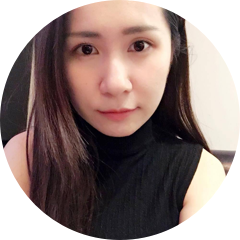
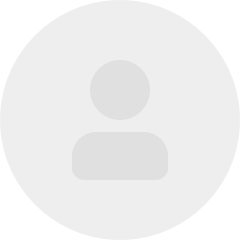
get firebase auth info, logout function

diff --git a/src/screens/memberCenter/index.js b/src/screens/memberCenter/index.js
@@ -15,6 +15,17 @@ import {
   Content
 } from 'native-base'
 import styles from './styles'
+import { connect } from 'react-redux'
+import { bindActionCreators } from 'redux'
+import memberAction from '../../reducer/member/memberAction'
+
+@connect(state => ({
+  memberUid: state.member.uid,
+  memberEmail: state.member.email,
+  memberAvatar: state.member.avatarUrl
+}), dispatch => ({
+  logout: bindActionCreators(memberAction.logoutMember, dispatch)
+}))
 
 export default class MemberCenter extends Component {
   listsData = {
@@ -29,6 +40,10 @@ export default class MemberCenter extends Component {
       { key: 'iconFeedback', icon: require(`../../assets/img/memberCenter/iconFeedback.png`), target: 'Feedback', text: '意見回饋' },
       { key: 'iconApply', icon: require(`../../assets/img/memberCenter/iconApply.png`), target: 'Apply', text: '成為講師' }
     ]
+  }
+
+  _logout() {
+    this.props.logout()
   }
 
   _renderListItem(rowData) {
@@ -62,22 +77,44 @@ export default class MemberCenter extends Component {
     )
   }
 
+  _renderUserAvater() {
+    return (
+      <View style={[styles.mainBackground, styles.avatar]}>
+        <Image 
+          source={
+            this.props.memberUid?
+            { uri: this.props.memberAvatar }:
+            require('../../assets/img/memberCenter/profileIcon.png')
+          }
+          style={styles.avatarImg}
+          large
+        />
+        <Text 
+          style={styles.email} 
+          onPress={() => {
+            if (!this.props.memberUid) {
+              this.props.navigation.navigate('Login')
+            }
+          }}
+        >
+          { this.props.memberUid? this.props.memberEmail: '登入' }
+        </Text>
+        {
+          this.props.memberUid &&
+          <TouchableOpacity onPress={() => this.props.navigation.navigate('MemberInfo')} style={styles.moreInfo}>
+            <Image source={require('../../assets/img/memberCenter/enter.png')} />
+          </TouchableOpacity>
+        }
+      </View>
+    )
+  }
+
   render() {
     return (
       <Container style={styles.container}>
         <Content>
-          <View style={[styles.mainBackground, styles.avatar]}>
-            <Image 
-              source={require('../../assets/img/memberCenter/profileIcon.png')}
-              style={styles.avatarImg}
-              large
-            />
-            <Text style={styles.email}>
-              wangshihe@gmail.com
-            </Text>
-            <TouchableOpacity onPress={() => this.props.navigation.navigate('MemberInfo')} style={styles.moreInfo}>
-              <Image source={require('../../assets/img/memberCenter/enter.png')} />
-            </TouchableOpacity>
+          <View>
+            { this._renderUserAvater() }
           </View>
           <View style={styles.container}>
             
@@ -90,13 +127,16 @@ export default class MemberCenter extends Component {
             <View style={styles.selectList}>
               { this.listsData.other.map(this._renderListItem.bind(this)) }
             </View>
-            <View style={styles.logout}>
-              <Button 
-                color="#212121" 
-                title="登出"
-                onPress={() => {}}
-              />
-            </View>
+            {
+              this.props.memberUid &&
+              <View style={styles.logout}>
+                <Button 
+                  color="#212121" 
+                  title="登出"
+                  onPress={this._logout.bind(this)}
+                />
+              </View>
+            }
           </View>
         </Content>
       </Container>

diff --git a/src/screens/memberCenter/memberInfo.js b/src/screens/memberCenter/memberInfo.js
@@ -15,10 +15,16 @@ import {
   Container
 } from 'native-base'
 import { memberInfoStyle } from './styles'
+import { connect } from 'react-redux'
+
+@connect(state => ({
+  memberEmail: state.member.email,
+  memberPhoto: state.member.avatarUrl
+}))
 
 class MemberInfo extends Component {
   formData = {
-    account: { text: '帳號' },
+    Email: { text: '帳號' },
     password: { text: '設定密碼' },
     gender: { text: '性別' },
     birthday: { text: '生日' }
@@ -30,13 +36,14 @@ class MemberInfo extends Component {
 
   _renderFormComponent(key) {
     let data = this.formData[key]
+    let value = this.props[`member${key}`]
     return (
       <View key={key} style={memberInfoStyle.formInput}>
         <View style={memberInfoStyle.input}>
           <Text style={memberInfoStyle.inputLabel}>{data.text}</Text>
         </View>
         <View style={memberInfoStyle.inputArea}>
-          <Input style={memberInfoStyle.textInput} />
+          <Input style={memberInfoStyle.textInput} defaultValue={value} />
         </View>
       </View>
     )
@@ -48,7 +55,9 @@ class MemberInfo extends Component {
         <Content>
           <View style={memberInfoStyle.avatar}>
             <Thumbnail 
-              source={require('../../assets/img/memberCenter/profileIcon.png')}
+              source={{
+                uri: this.props.memberPhoto
+              }}
               style={memberInfoStyle.avatarImg}
             />
             <TouchableOpacity

diff --git a/src/screens/Main.js b/src/screens/Main.js
@@ -9,12 +9,26 @@ import { Container, View } from 'native-base'
 import { FIREBASE_CONFIG } from '../lib/config'
 import firebase from 'firebase'
 import { NavigationActions } from 'react-navigation'
+import { connect } from 'react-redux'
+import { bindActionCreators } from 'redux'
+import memberAction from '../reducer/member/memberAction'
 
 firebase.initializeApp(FIREBASE_CONFIG)
+
+@connect(state => ({
+
+}), dispatch => ({
+  member: bindActionCreators(memberAction, dispatch)
+}))
 
 export default class Main extends Component {
   static navigationOptions = {
     header: null,
+  }
+
+  async _readUserData(user) {
+    let snapshot = await firebase.database().ref(`/users/${user.uid}/profile`).once('value')
+    this.props.member.changeMemberState({ ...snapshot.val(), uid: user.uid })
   }
 
   componentWillMount () {
@@ -28,6 +42,7 @@ export default class Main extends Component {
               NavigationActions.navigate({routeName: 'TalkList'})
             ]
           }))
+        this._readUserData(user)
       } else {
           dispatch(
             NavigationActions.reset({

diff --git a/src/reducer/member/memberReducer.js b/src/reducer/member/memberReducer.js
@@ -1,0 +1,22 @@
+import {
+  handleActions
+} from 'redux-actions'
+
+const initMemberState = {
+  avatarUrl: null,
+  email: null,
+  name: null,
+  uid: null
+}
+
+export default handleActions({
+  'CHANGE_MEMBER_STATE': (memberState, action) => {
+    return { 
+      ...memberState, 
+      ...action.payload 
+    }
+  },
+  'LOGOUT_MEMBER': (memberState) => {
+    return initMemberState
+  }
+}, initMemberState)

diff --git a/src/reducer/member/memberAction.js b/src/reducer/member/memberAction.js
@@ -1,0 +1,12 @@
+import {
+  createActions
+} from 'redux-actions'
+import firebase from 'firebase'
+
+export default createActions({
+  'CHANGE_MEMBER_STATE': memberState => memberState,
+  'LOGOUT_MEMBER': async () => {
+    await firebase.auth().signOut()
+    return null
+  }
+})

diff --git a/src/reducer/index.js b/src/reducer/index.js
@@ -3,8 +3,10 @@
 import { combineReducers } from 'redux'
 import nav from './navigator/navigatorReducer'
 import audio from './audio/audioReducer'
+import member from './member/memberReducer'
 
 export default combineReducers({
   nav,
-  audio
+  audio,
+  member
 })
